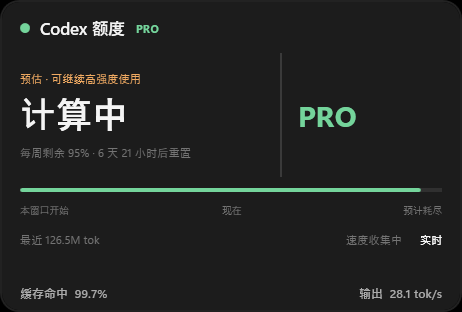
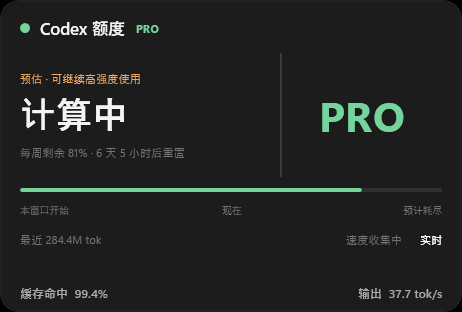
Polish Pro single-window layouts

diff --git a/monitor-src/CodexQuotaMonitor/MainWindow.cs b/monitor-src/CodexQuotaMonitor/MainWindow.cs
@@ -604,13 +604,14 @@ internal sealed class MainWindow : Window
 			}
 		};
 		Grid element = CreateMetricRow(_snapshot.ShortWindow, "5 小时");
-		Grid element2 = _snapshot.ShortWindow != null && _snapshot.LongWindow == null
-			? CreateSingleWindowNote()
-			: CreateMetricRow(_snapshot.LongWindow, "每周");
 		Grid.SetRow(element, 0);
-		Grid.SetRow(element2, 1);
 		obj.Children.Add(element);
-		obj.Children.Add(element2);
+		if (_snapshot.ShortWindow == null || _snapshot.LongWindow != null)
+		{
+			Grid element2 = CreateMetricRow(_snapshot.LongWindow, "每周");
+			Grid.SetRow(element2, 1);
+			obj.Children.Add(element2);
+		}
 		Grid grid = new Grid
 		{
 			Margin = new Thickness(0.0, 11.0, 0.0, 0.0)
@@ -641,30 +642,6 @@ internal sealed class MainWindow : Window
 		Grid.SetRow(grid, 2);
 		obj.Children.Add(grid);
 		return obj;
-	}
-
-	private Grid CreateSingleWindowNote()
-	{
-		Grid grid = new Grid
-		{
-			Height = 34.0,
-			Margin = new Thickness(0.0, 0.0, 0.0, 3.0)
-		};
-		grid.Children.Add(new Border
-		{
-			CornerRadius = new CornerRadius(7.0),
-			Background = _palette.Track
-		});
-		StackPanel content = new StackPanel
-		{
-			Orientation = System.Windows.Controls.Orientation.Horizontal,
-			VerticalAlignment = VerticalAlignment.Center,
-			Margin = new Thickness(9.0, 0.0, 9.0, 0.0)
-		};
-		content.Children.Add(Text(PlanBadgeText() ?? "当前套餐", 8.0, _palette.Green, FontWeights.Bold));
-		content.Children.Add(Text("仅返回一个额度窗口", 8.0, _palette.Muted, FontWeights.Normal, new Thickness(7.0, 0.0, 0.0, 0.0)));
-		grid.Children.Add(content);
-		return grid;
 	}
 
 	private Grid CreateMetricRow(RateWindow? window, string fallback)
@@ -939,7 +916,11 @@ internal sealed class MainWindow : Window
 		};
 		if (_snapshot.ShortWindow != null && _snapshot.LongWindow == null)
 		{
-			stackPanel2.Children.Add(Text(PlanBadgeText() ?? "单窗口", 19.0, _palette.Green, FontWeights.Bold));
+			border.Padding = new Thickness(0.0);
+			stackPanel2.HorizontalAlignment = System.Windows.HorizontalAlignment.Center;
+			TextBlock planLabel = Text(PlanBadgeText() ?? "单窗口", 28.0, _palette.Green, FontWeights.Bold);
+			planLabel.HorizontalAlignment = System.Windows.HorizontalAlignment.Center;
+			stackPanel2.Children.Add(planLabel);
 		}
 		else
 		{

diff --git a/monitor-src/Properties/AssemblyInfo.cs b/monitor-src/Properties/AssemblyInfo.cs
@@ -5,10 +5,10 @@ using System.Runtime.Versioning;
 
 [assembly: AssemblyCompany("CodexQuotaMonitor")]
 [assembly: AssemblyConfiguration("Release")]
-[assembly: AssemblyFileVersion("1.0.2.0")]
-[assembly: AssemblyInformationalVersion("1.0.2")]
+[assembly: AssemblyFileVersion("1.0.3.0")]
+[assembly: AssemblyInformationalVersion("1.0.3")]
 [assembly: AssemblyProduct("CodexQuotaMonitor")]
 [assembly: AssemblyTitle("CodexQuotaMonitor")]
 [assembly: TargetPlatform("Windows7.0")]
 [assembly: SupportedOSPlatform("Windows7.0")]
-[assembly: AssemblyVersion("1.0.2.0")]
+[assembly: AssemblyVersion("1.0.3.0")]

diff --git a/installer-src/CodexQuotaMonitorSetup/Program.cs b/installer-src/CodexQuotaMonitorSetup/Program.cs
@@ -214,7 +214,7 @@ internal static class InstallerEngine
 {
     private const string PluginName = "codex-quota-monitor";
     private const string MarketplaceName = "personal";
-	private const string PluginVersion = "1.0.2+codex.20260925120130";
+	private const string PluginVersion = "1.0.3+codex.20260926044229";
     private const string UninstallKey = @"Software\Microsoft\Windows\CurrentVersion\Uninstall\CodexQuotaMonitor";
 
     private static string Home => Environment.GetFolderPath(Environment.SpecialFolder.UserProfile);

diff --git a/monitor-src/CodexQuotaMonitor/AppServerClient.cs b/monitor-src/CodexQuotaMonitor/AppServerClient.cs
@@ -137,7 +137,7 @@ internal sealed class AppServerClient : IAsyncDisposable
 					{
 						name = "codex_quota_monitor",
 						title = "Codex Quota Monitor",
-						version = "1.0.2"
+						version = "1.0.3"
 					}
 				}, cancellationToken, skipStartCheck: true);
 				await SendAsync(new

diff --git a/.github/release-notes-v1.0.3.md b/.github/release-notes-v1.0.3.md
@@ -1,0 +1,20 @@
+## Codex Quota Monitor v1.0.3
+
+### 界面调整
+
+- A 页删除“仅返回一个额度窗口”提示行
+- C 页右侧 `PRO` 放大并在格子中居中
+- B 页保持不变
+- README 只更新对应图片，不修改文案
+
+### 下载
+
+下载下方的 `Setup.exe` 并运行。支持 Windows 10/11 x64，需要登录支持 Codex 的 ChatGPT 账号。
+
+`Setup.exe` SHA-256：
+
+```text
[1 lines of base64/hex data omitted]
+```
+
+> 安装包尚未使用商业代码签名证书签名，Windows SmartScreen 可能显示“未知发布者”。请核对以上 SHA-256。

diff --git a/CHANGELOG.md b/CHANGELOG.md
@@ -1,5 +1,11 @@
 # Changelog
 
+## v1.0.3 — 2026-09-26
+
+- Removed the Pro single-window note from layout A.
+- Enlarged and centered the right-side `PRO` label in layout C.
+- Updated the matching README screenshots without changing README copy.
+
 ## v1.0.2 — 2026-09-25
 
 - Removed the two redundant gray explanatory lines from the Pro single-window HUD while retaining the green `PRO` label.
